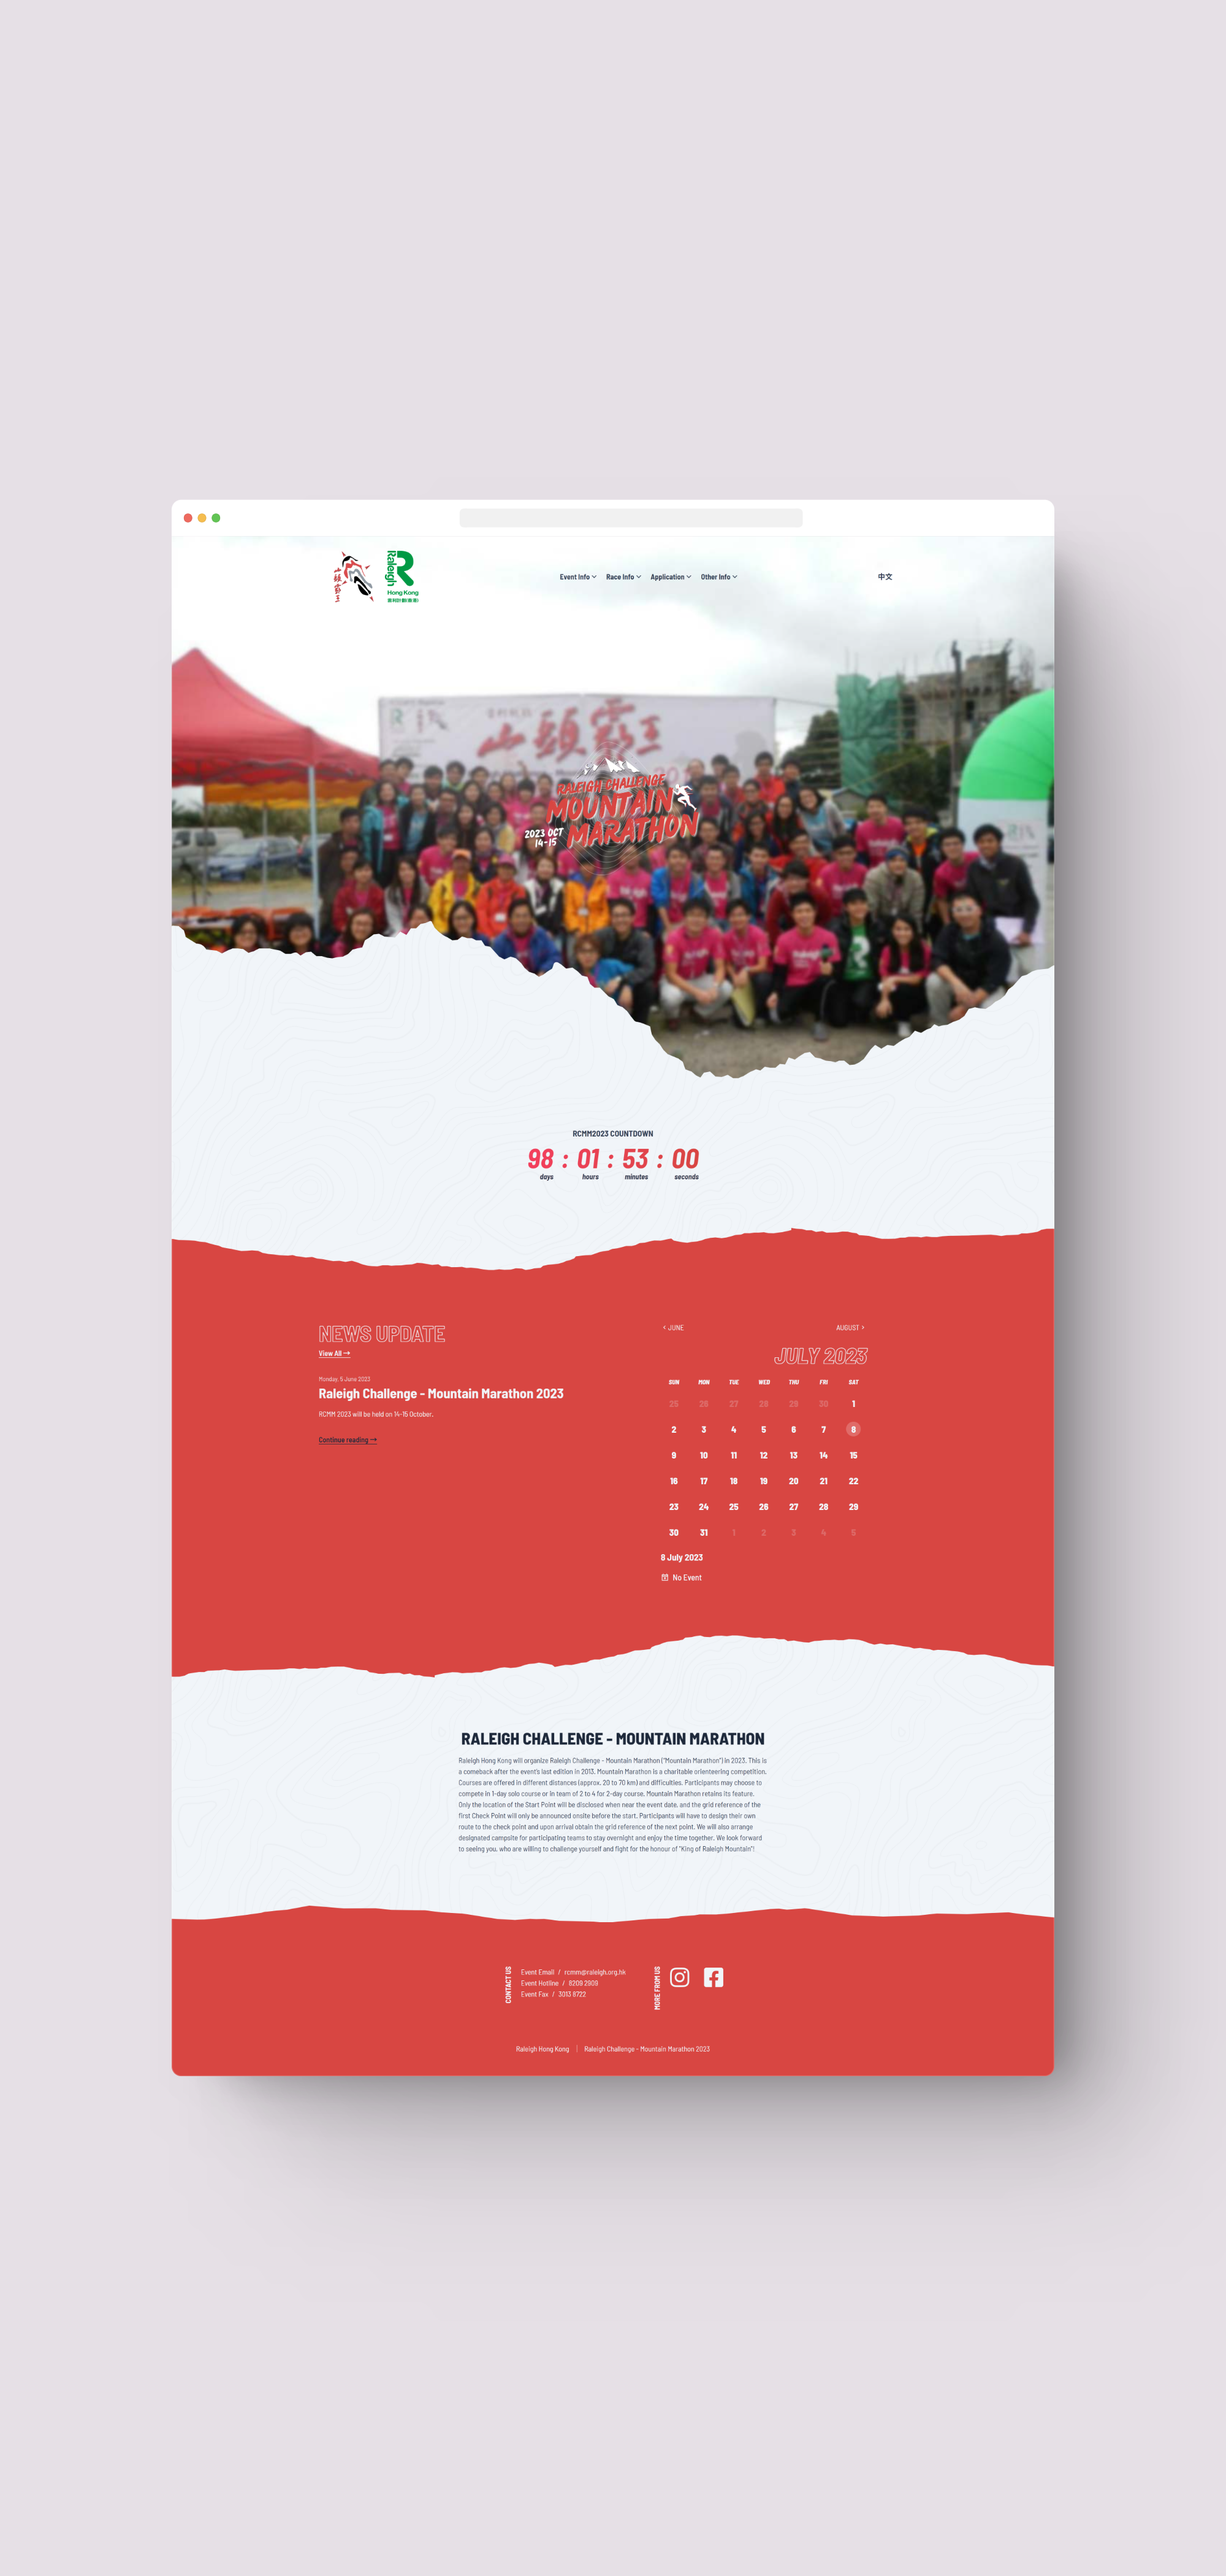
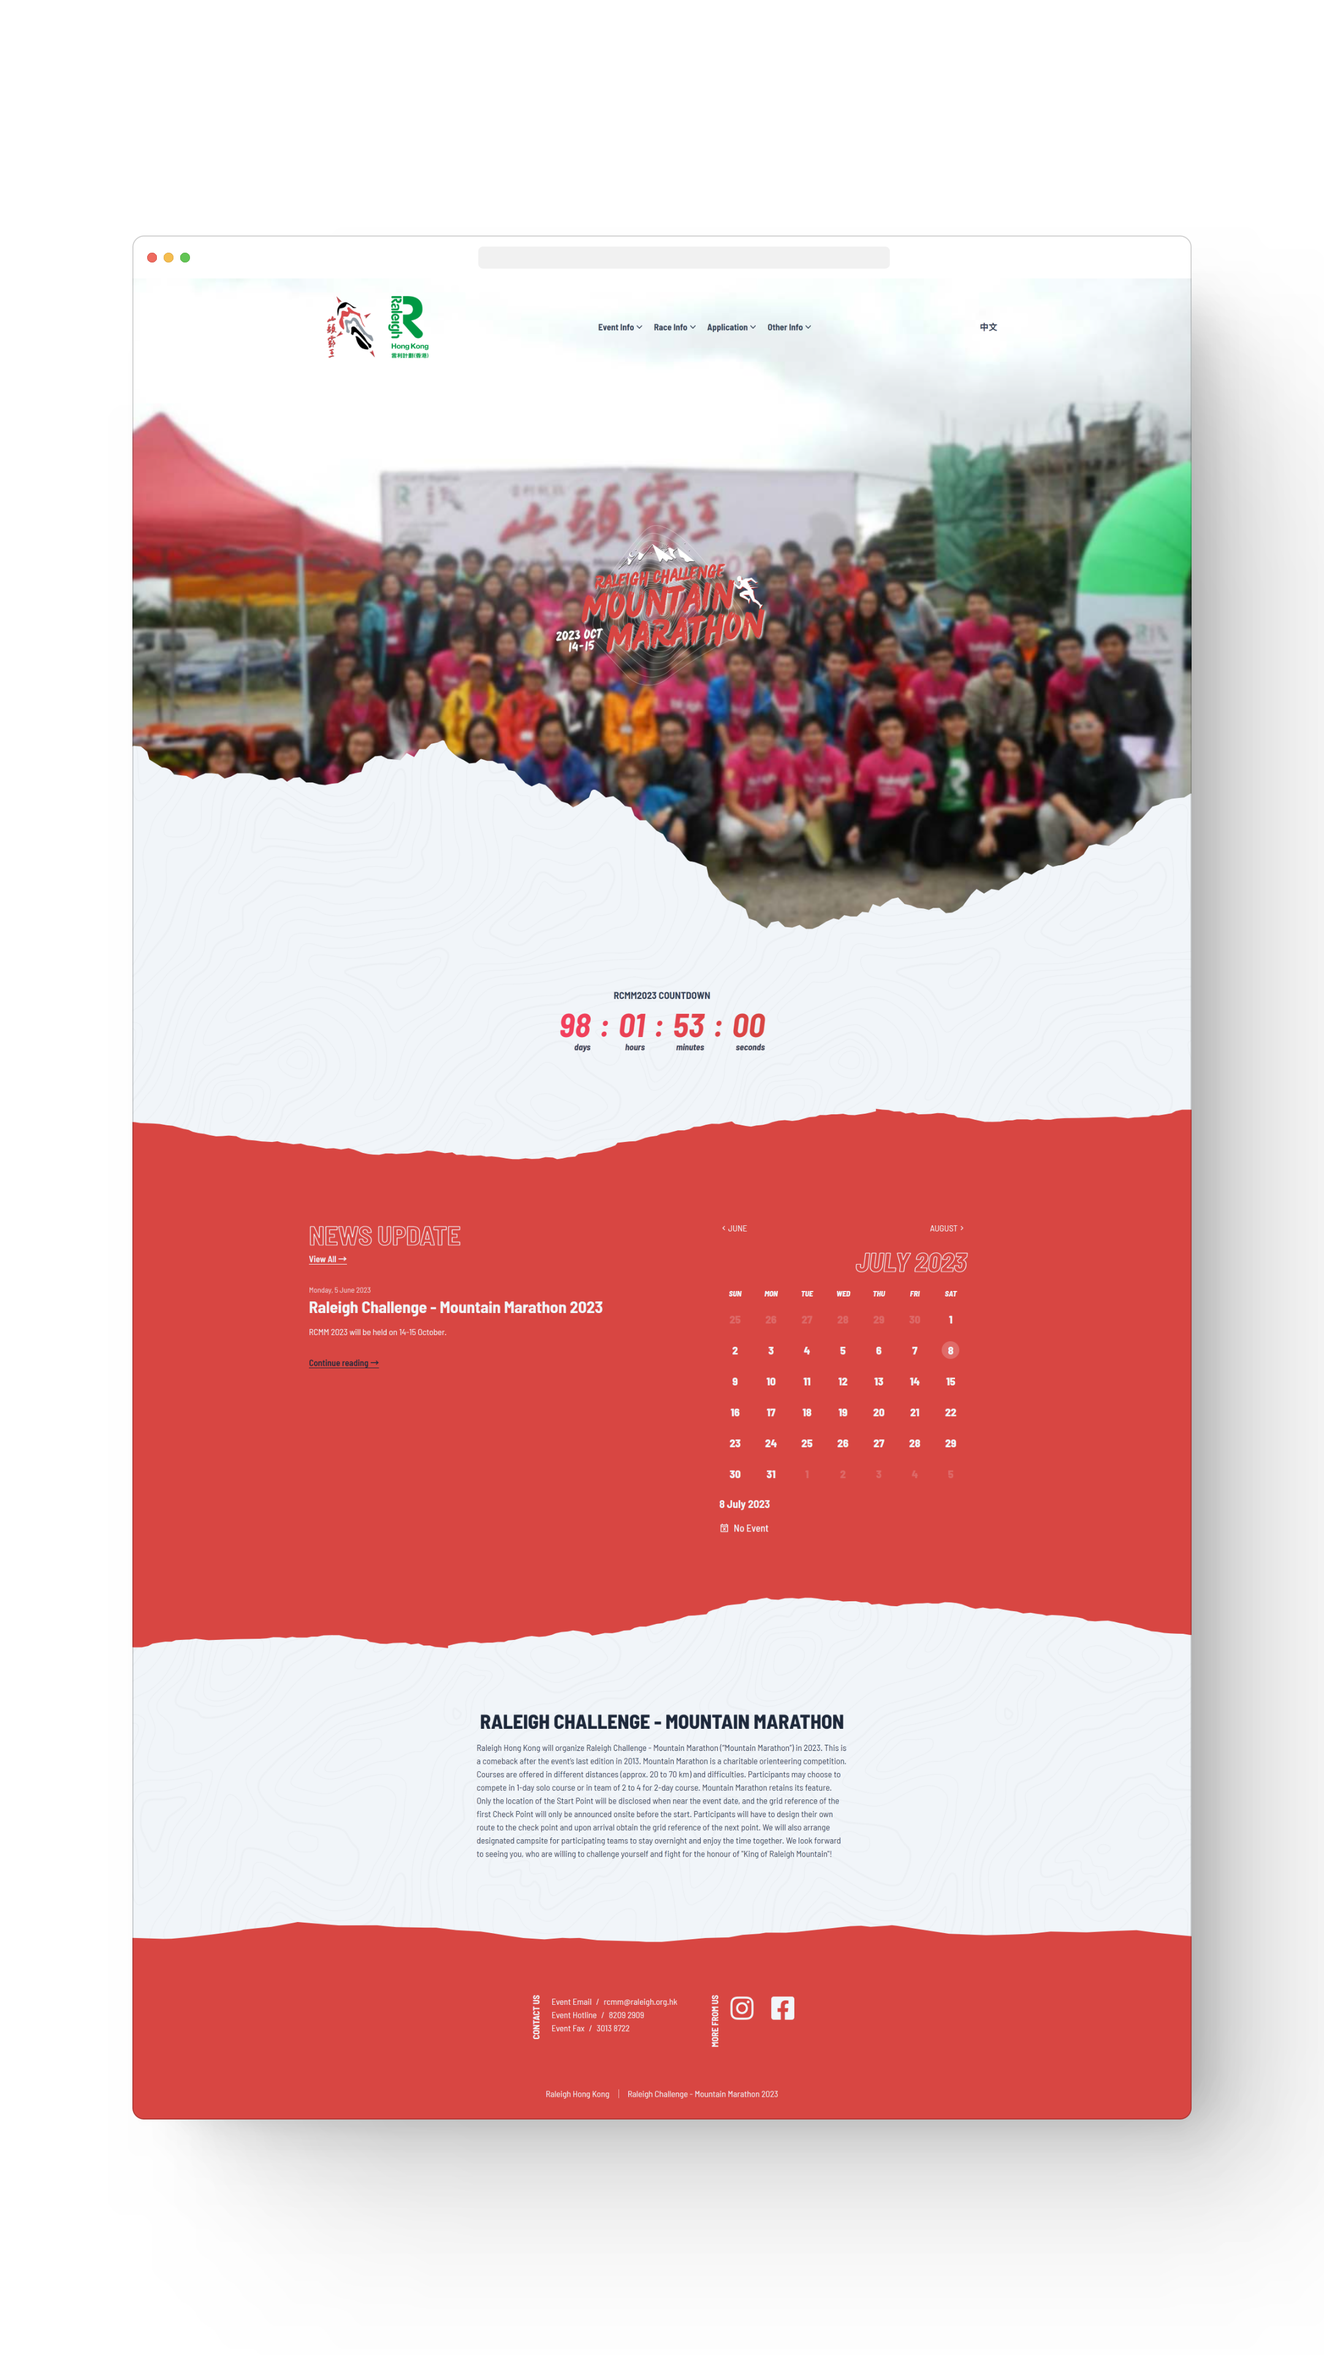
change rcmm image

diff --git a/src/projects/rcmm.md b/src/projects/rcmm.md
@@ -102,7 +102,7 @@ I have developed a `Website` and a `Registration System` for the upcoming event 
 
 <div class="grid grid-cols-1 md:grid-cols-2 gap-4 not-prose">
     <div class="grid gap-4 content-start">
-        <AspectRatio ratio={10 / 21}>
+        <AspectRatio ratio={9 / 16}>
             <img class="h-auto max-w-full rounded-sm bg-secondary" src="/projects/rcmm/full-page.png" alt="Website mockup - full page"/>
         </AspectRatio>
         <AspectRatio ratio={4 / 3}>
